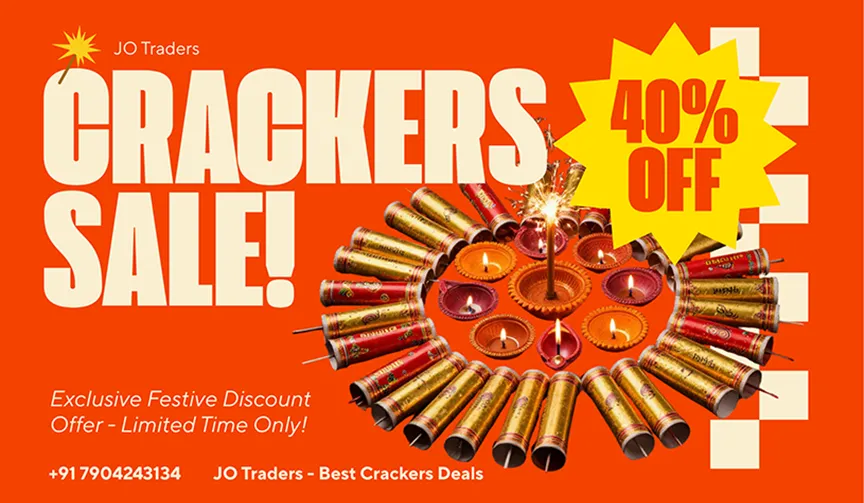
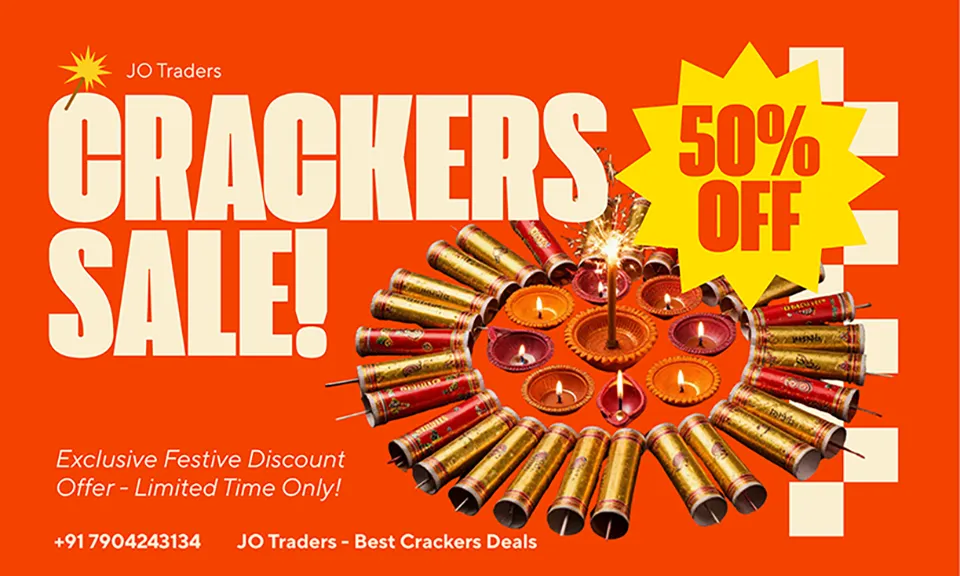
Update mobile navigation and website assets

diff --git a/prisma/seed.ts b/prisma/seed.ts
@@ -3,22 +3,22 @@ import { PrismaClient } from "@prisma/client";
 const prisma = new PrismaClient();
 
 const products = [
-  ["business-cards","Business Cards","Regular and premium business cards with gloss/matt lamination, synthetic stocks, foils, texture, Spot UV and specialty boards.","/images/Business Cards.png","Business Printing",true],
-  ["letterheads","Letter Heads","A4 and Letter size letterheads in one-colour, two-colour or multicolour printing on your desired paper.","/images/Letter Heads.png","Business Printing",true],
-  ["bill-books","Bill Books","Custom duplicate/triplicate bill books and business stationery prepared to your required format.","/images/Bill Books.png","Business Printing",false],
-  ["envelopes","Envelopes","Branded envelopes in standard and custom formats for professional correspondence.","/images/Envelopes.png","Business Printing",false],
-  ["vouchers-receipts","Voucher / Receipt","Custom vouchers, receipts and accounting stationery for businesses.","/images/Voucher_Receipt.png","Business Printing",false],
-  ["files","Files","Printed office files and presentation folders for organised business documentation.","/images/Files.png","Business Printing",false],
-  ["wall-posters","Wall Posters","Large-format posters for branding, announcements, campaigns and promotions.","/images/Wall Posters.png","Promotional",true],
-  ["flyers-brochures","Flyers / Brochures","Promotional flyers and brochures designed for clear, vibrant communication.","/images/Flyers_Brochures.png","Promotional",true],
-  ["stickers","Stickers","Custom stickers and labels in a variety of shapes, finishes and sizes.","/images/Stickers.png","Labels & Packaging",false],
-  ["box-paper-bags","Box / Paper Bags","Custom printed boxes and paper bags for product presentation and retail branding.","/images/Box_Paper Bags.png","Labels & Packaging",true],
-  ["calendars","Calendars","Branded calendars for promotional distribution and corporate gifting.","/images/Calendars.png","Promotional",false],
-  ["non-woven-bags","Non Woven Bags","Reusable non-woven carry bags with custom branding.","/images/Non Woven Bags.png","Promotional",false],
-  ["woven-labels","Woven Labels","Custom woven labels for apparel and textile branding.","/images/Woven Labels.png","Labels & Packaging",false],
-  ["novelties","Novelties","Custom promotional novelties and branded merchandise.","/images/Novelties.png","Promotional",false],
-  ["graphic-design","Graphic Design","Creative artwork, layouts and production-ready design support.","/images/Graphic Design.png","Design",true],
-  ["invitations","Invitations","Basic and premium invitations with single cards, pouches, Spot UV, 3D lamination, gold foil, die cuts and paper/board sets.","/images/Invitations.png","Invitations",true]
+  ["business-cards","Business Cards","Regular and premium business cards with gloss/matt lamination, synthetic stocks, foils, texture, Spot UV and specialty boards.","/images/Business Cards.webp","Business Printing",true],
+  ["letterheads","Letter Heads","A4 and Letter size letterheads in one-colour, two-colour or multicolour printing on your desired paper.","/images/Letter Heads.webp","Business Printing",true],
+  ["bill-books","Bill Books","Custom duplicate/triplicate bill books and business stationery prepared to your required format.","/images/Bill Books.webp","Business Printing",false],
+  ["envelopes","Envelopes","Branded envelopes in standard and custom formats for professional correspondence.","/images/Envelopes.webp","Business Printing",false],
+  ["vouchers-receipts","Voucher / Receipt","Custom vouchers, receipts and accounting stationery for businesses.","/images/Voucher_Receipt.webp","Business Printing",false],
+  ["files","Files","Printed office files and presentation folders for organised business documentation.","/images/Files.webp","Business Printing",false],
+  ["wall-posters","Wall Posters","Large-format posters for branding, announcements, campaigns and promotions.","/images/Wall Posters.webp","Promotional",true],
+  ["flyers-brochures","Flyers / Brochures","Promotional flyers and brochures designed for clear, vibrant communication.","/images/Flyers_Brochures.webp","Promotional",true],
+  ["stickers","Stickers","Custom stickers and labels in a variety of shapes, finishes and sizes.","/images/Stickers.webp","Labels & Packaging",false],
+  ["box-paper-bags","Box / Paper Bags","Custom printed boxes and paper bags for product presentation and retail branding.","/images/Box_Paper Bags.webp","Labels & Packaging",true],
+  ["calendars","Calendars","Branded calendars for promotional distribution and corporate gifting.","/images/Calendars.webp","Promotional",false],
+  ["non-woven-bags","Non Woven Bags","Reusable non-woven carry bags with custom branding.","/images/Non Woven Bags.webp","Promotional",false],
+  ["woven-labels","Woven Labels","Custom woven labels for apparel and textile branding.","/images/Woven Labels.webp","Labels & Packaging",false],
+  ["novelties","Novelties","Custom promotional novelties and branded merchandise.","/images/Novelties.webp","Promotional",false],
+  ["graphic-design","Graphic Design","Creative artwork, layouts and production-ready design support.","/images/Graphic Design.webp","Design",true],
+  ["invitations","Invitations","Basic and premium invitations with single cards, pouches, Spot UV, 3D lamination, gold foil, die cuts and paper/board sets.","/images/Invitations.webp","Invitations",true]
 ];
 
 async function main() {

diff --git a/components/Nav.tsx b/components/Nav.tsx
@@ -1,55 +1,32 @@
+"use client";
+
 import Link from "next/link";
+import { useState } from "react";
+import { FaWhatsapp } from "react-icons/fa";
 
 export default function Nav() {
+  const [open, setOpen] = useState(false);
+  const close = () => setOpen(false);
   return (
     <nav className="nav">
       <div className="container navin">
-
-        <Link href="/" className="brand" aria-label="JO Enterprises - Print Solutions">
-          <img
-            src="/images/Logo.png"
-            alt="JO Enterprises logo"
-            className="logo"
-          />
-          <span className="brandText">
-            <span className="brandTitle">JO Enterprises</span>
-            <span className="brandSubtitle">Print Solutions</span>
-          </span>
+        <Link href="/" className="brand" aria-label="JO Enterprises - Print Solutions" onClick={close}>
+          <img src="/images/Logo.webp" alt="JO Enterprises logo" className="logo" />
+          <span className="brandText"><span className="brandTitle">JO Enterprises</span><span className="brandSubtitle">Print Solutions</span></span>
         </Link>
-
-        <div className="links">
-          <Link href="/">Home</Link>
-          <Link href="/services">Our Services</Link>
-          <Link href="/print-products">Print Products</Link>
-          <Link href="/jo-traders">JO Traders</Link>
-          <Link href="/gallery">Gallery</Link>
-          <Link href="/contact">Contact</Link>
-          <Link
-            className="whatsappLink"
-            href="https://wa.me/919445573457"
-            target="_blank"
-            rel="noopener noreferrer"
-            aria-label="Message JO Enterprises on WhatsApp"
-            title="Message us on WhatsApp"
-          >
-            <svg
-              className="whatsappIcon"
-              viewBox="0 0 24 24"
-              aria-hidden="true"
-              focusable="false"
-            >
-              <path
-                fill="currentColor"
-                d="M12 2.1a9.9 9.9 0 0 0-8.55 14.9L2 21.9l5.05-1.32A9.9 9.9 0 1 0 12 2.1Zm0 18a8.08 8.08 0 0 1-4.12-1.13l-.3-.18-3 .78.8-2.92-.2-.31A8.08 8.08 0 1 1 12 20.1Zm4.42-6.05c-.24-.12-1.4-.69-1.62-.77-.22-.08-.38-.12-.54.12-.16.24-.62.77-.76.93-.14.16-.28.18-.52.06-.24-.12-1-.37-1.9-1.18-.7-.62-1.18-1.39-1.32-1.63-.14-.24-.01-.37.1-.49.11-.11.24-.28.36-.42.12-.14.16-.24.24-.4.08-.16.04-.3-.02-.42-.06-.12-.54-1.3-.74-1.78-.2-.47-.4-.41-.54-.42h-.46c-.16 0-.42.06-.64.3-.22.24-.84.82-.84 2s.86 2.32.98 2.48c.12.16 1.69 2.58 4.1 3.62.57.25 1.02.4 1.37.51.58.18 1.1.15 1.51.09.46-.07 1.4-.57 1.6-1.12.2-.55.2-1.02.14-1.12-.06-.1-.22-.16-.46-.28Z"
-              />
-            </svg>
-          </Link>
-
-          <Link className="cta" href="/contact">
-            Get a Quote
-          </Link>
+        <button className="menuToggle" type="button" aria-label="Toggle navigation menu" aria-expanded={open} onClick={() => setOpen(!open)}>
+          <span></span><span></span><span></span>
+        </button>
+        <div className={`links ${open ? "open" : ""}`}>
+          <Link href="/" onClick={close}>Home</Link>
+          <Link href="/services" onClick={close}>Our Services</Link>
+          <Link href="/print-products" onClick={close}>Print Products</Link>
+          <Link href="/jo-traders" onClick={close}>JO Traders</Link>
+          <Link href="/gallery" onClick={close}>Gallery</Link>
+          <Link href="/contact" onClick={close}>Contact</Link>
+          <Link className="whatsappLink" href="https://wa.me/919445573457" target="_blank" rel="noopener noreferrer" aria-label="Message JO Enterprises on WhatsApp" onClick={close}><FaWhatsapp className="whatsappIcon" /></Link>
+          <Link className="cta" href="/contact" onClick={close}>Get a Quote</Link>
         </div>
-
       </div>
     </nav>
   );

diff --git a/app/page.tsx b/app/page.tsx
@@ -1,14 +1,7 @@
 import Link from "next/link";
 import PromoCarousel from "@/components/PromoCarousel";
 
-const categories = [
-  { title: "Invitation", sub: "Cards", href: "/print-products?category=Invitation%20Cards" },
-  { title: "Thamboola", sub: "Bags", href: "/print-products?category=Thamboola%20Bags" },
-  { title: "Business", sub: "Essentials", href: "/print-products?category=Business%20Essentials" },
-  { title: "Event/Function", sub: "Essentials", href: "/print-products?category=Event%2FFunction%20Essentials" },
-  { title: "Digital", sub: "Promo", href: "/print-products?category=Digital%20Promo" },
-  { title: "Custom Printing", sub: "Solutions", href: "/print-products?category=Custom%20Printing%20Solutions" },
-];
+
 
 const reasons = [
   {
@@ -94,7 +87,7 @@ export default function Home() {
             <article className="reviewCard reviewSnapCard">
               <div className="reviewCardBadge">★ REAL GOOGLE REVIEW</div>
               <div className="reviewSnapFrame">
-                <img src="/images/google-review-1.png" alt="Google review from sasipriya kamban with photos of JO Enterprises Thamboola bags" />
+                <img src="/images/google-review-1.webp" alt="Google review from sasipriya kamban with photos of JO Enterprises Thamboola bags" />
               </div>
               <a href="https://www.google.com/search?q=joenterprise+google+review" target="_blank" rel="noreferrer" className="reviewLink">View on Google ↗</a>
             </article>
@@ -102,7 +95,7 @@ export default function Home() {
             <article className="reviewCard reviewSnapCard">
               <div className="reviewCardBadge">★ REAL GOOGLE REVIEW</div>
               <div className="reviewSnapFrame">
-                <img src="/images/google-review-2.png" alt="Google review from Muniswaran petchimuthu for JO Enterprises" />
+                <img src="/images/google-review-2.webp" alt="Google review from Muniswaran petchimuthu for JO Enterprises" />
               </div>
               <a href="https://www.google.com/search?q=joenterprise+google+review" target="_blank" rel="noreferrer" className="reviewLink">View on Google ↗</a>
             </article>
@@ -110,7 +103,7 @@ export default function Home() {
             <article className="reviewCard reviewSnapCard">
               <div className="reviewCardBadge">★ REAL GOOGLE REVIEW</div>
               <div className="reviewSnapFrame">
-                <img src="/images/google-review-3.png" alt="Google review from Senthil Kumar praising JO Enterprises printing design and quality" />
+                <img src="/images/google-review-3.webp" alt="Google review from Senthil Kumar praising JO Enterprises printing design and quality" />
               </div>
               <a href="https://www.google.com/search?q=joenterprise+google+review" target="_blank" rel="noreferrer" className="reviewLink">View on Google ↗</a>
             </article>

diff --git a/app/print-products/page.tsx b/app/print-products/page.tsx
@@ -2,22 +2,22 @@ import {prisma} from "@/lib/prisma";
 import Link from "next/link";
 
 const productImages: Record<string, string> = {
-  "business-cards": "/images/Business Cards.png",
-  "letterheads": "/images/Letter Heads.png",
-  "bill-books": "/images/Bill Books.png",
-  "envelopes": "/images/Envelopes.png",
-  "vouchers-receipts": "/images/Voucher_Receipt.png",
-  files: "/images/Files.png",
-  "wall-posters": "/images/Wall Posters.png",
-  "flyers-brochures": "/images/Flyers_Brochures.png",
-  stickers: "/images/Stickers.png",
-  "box-paper-bags": "/images/Box_Paper Bags.png",
-  calendars: "/images/Calendars.png",
-  "non-woven-bags": "/images/Non Woven Bags.png",
-  "woven-labels": "/images/Woven Labels.png",
-  novelties: "/images/Novelties.png",
-  "graphic-design": "/images/Graphic Design.png",
-  invitations: "/images/Invitations.png",
+  "business-cards": "/images/Business Cards.webp",
+  "letterheads": "/images/Letter Heads.webp",
+  "bill-books": "/images/Bill Books.webp",
+  "envelopes": "/images/Envelopes.webp",
+  "vouchers-receipts": "/images/Voucher_Receipt.webp",
+  files: "/images/Files.webp",
+  "wall-posters": "/images/Wall Posters.webp",
+  "flyers-brochures": "/images/Flyers_Brochures.webp",
+  stickers: "/images/Stickers.webp",
+  "box-paper-bags": "/images/Box_Paper Bags.webp",
+  calendars: "/images/Calendars.webp",
+  "non-woven-bags": "/images/Non Woven Bags.webp",
+  "woven-labels": "/images/Woven Labels.webp",
+  novelties: "/images/Novelties.webp",
+  "graphic-design": "/images/Graphic Design.webp",
+  invitations: "/images/Invitations.webp",
 };
 
 export default async function PrintProducts() {

diff --git a/app/globals.css b/app/globals.css
@@ -288,3 +288,17 @@ a{text-decoration:none;color:inherit}.container{width:min(1180px,92%);margin:aut
 .tradersOrderBtnDark:hover{box-shadow:0 14px 30px rgba(111,32,32,.22)}
 @media(max-width:900px){.tradersProductGrid{grid-template-columns:1fr 1fr}.tradersCrackersInner{grid-template-columns:1fr 260px}.tradersCrackersInner .tradersOrderBtn{grid-column:1 / -1;width:max-content}}
 @media(max-width:560px){.tradersHero{padding:68px 0 58px}.tradersSection{padding:60px 0}.tradersProductGrid{grid-template-columns:1fr}.tradersCrackers{padding:55px 0 70px}.tradersCrackersInner{grid-template-columns:1fr}.tradersCrackersInner .tradersOrderBtn{grid-column:auto;width:100%}.tradersImagePlaceholder{height:220px}.tradersCrackerImage{height:210px}}
+
+/* Mobile navigation */
+.menuToggle{display:none;background:transparent;border:0;padding:8px;cursor:pointer}
+.menuToggle span{display:block;width:25px;height:2px;background:#fff;margin:5px 0;border-radius:2px}
+@media(max-width:850px){
+  .nav{position:sticky}
+  .navin{position:relative}
+  .menuToggle{display:block;margin-left:auto}
+  .links{display:none}
+  .links.open{display:flex;position:absolute;top:100%;left:0;right:0;z-index:100;flex-direction:column;align-items:stretch;gap:0;padding:10px 16px 18px;background:#063f43;border-top:1px solid rgba(217,242,243,.12);box-shadow:0 16px 30px rgba(0,0,0,.18)}
+  .links.open>a{display:block;padding:13px 8px;color:#d9f2f3;border-bottom:1px solid rgba(217,242,243,.09)}
+  .links.open>.whatsappLink{width:auto;height:auto;border-radius:0;color:#d9f2f3}
+  .links.open>.cta{text-align:center;margin-top:12px;padding:13px 18px;border-bottom:0}
+}

diff --git a/components/Footer.tsx b/components/Footer.tsx
@@ -1,8 +1,9 @@
-import { Facebook, Instagram, Youtube, Phone, MapPin } from "lucide-react";
+import { Instagram, Youtube, Phone, MapPin } from "lucide-react";
+import { FaWhatsapp, FaFacebookF } from "react-icons/fa";
 
 const socialLinks = [
-  { label: "WhatsApp", href: "https://wa.me/919445573457", icon: <span className="footerWhatsApp" aria-hidden="true">⌕</span> },
-  { label: "Facebook", href: "https://www.facebook.com/JOE14621", icon: <Facebook className="footerIcon" /> },
+  { label: "WhatsApp", href: "https://wa.me/919445573457", icon: <FaWhatsapp className="footerIcon" /> },
+  { label: "Facebook", href: "https://www.facebook.com/JOE14621", icon: <FaFacebookF className="footerIcon" /> },
   { label: "Instagram", href: "https://www.instagram.com/joenterprises.am/?hl=en", icon: <Instagram className="footerIcon" /> },
   { label: "Google", href: "https://share.google/gQ7tw6Y193nRxJXTP", icon: <span className="footerGoogle" aria-hidden="true">G</span> },
   { label: "YouTube", href: "https://www.youtube.com/@joenterprises_am", icon: <Youtube className="footerIcon" /> },
@@ -14,7 +15,7 @@ export default function Footer() {
     <footer className="footer">
       <div className="container footerRow">
         <a href="/" className="footerBrand" aria-label="JO Enterprises home">
-          <img src="/images/logo.png" alt="JO Enterprises" className="footerLogo" />
+          <img src="/images/logo.webp" alt="JO Enterprises" className="footerLogo" />
         </a>
 
         <div className="footerLocation">

diff --git a/app/jo-traders/page.tsx b/app/jo-traders/page.tsx
@@ -5,7 +5,7 @@ const whatsappHref = "https://wa.me/917904243134?text=Hello%20JO%20Traders%2C%20
 const oils = [
   { name: "Sesame Oil", image: "/images/Sesame.webp", sizes: ["1L — Rs. 479", "500ml — Rs. 249"] },
   { name: "Groundnut Oil", image: "/images/Groundnut.webp", sizes: ["1L — Rs. 379", "500ml — Rs. 199"] },
-  { name: "Coconut Oil", image: "/images/Coconut.webp", sizes: ["500ml — Rs. 359"] },
+  { name: "Coconut Oil", image: "/images/Coconut.webp", sizes: ["500ml — Rs. 255"] },
 ];
 
 export default function JOTraders() {
@@ -14,7 +14,7 @@ export default function JOTraders() {
       <section className="tradersHero">
         <div className="container">
           <span className="tradersEyebrow">JO Traders</span>
-          <h1>Pure choices. Honest prices.</h1>
+          <h1>Pure Choices. Honest Prices.</h1>
           <p>Quality cooking oils and crackers, brought to you with dependable service.</p>
           <Link className="tradersOrderBtn" href={whatsappHref} target="_blank" rel="noopener noreferrer">
             Order Now on WhatsApp
@@ -26,7 +26,7 @@ export default function JOTraders() {
         <div className="container">
           <div className="tradersSectionHead">
             <span className="tradersEyebrow">Cooking Oils</span>
-            <h2>Everyday oils, carefully selected</h2>
+            <h2>Cold-Pressed oil, Naturaly Prepared</h2>
             <p>100ml, 200ml, 5L can and 15L tin available.</p>
           </div>
 

diff --git a/components/PromoCarousel.tsx b/components/PromoCarousel.tsx
@@ -4,10 +4,10 @@ import { useEffect, useState } from "react";
 import Image from "next/image";
 
 const promos = [
-  "/images/promos/calendar-2027.png",
-  "/images/promos/combo-offers.png",
-  "/images/promos/eco-paper-bags.png",
-  "/images/promos/seasonal-promos.png",
+  "/images/promos/calendar-2027.webp",
+  "/images/promos/combo-offers.webp",
+  "/images/promos/eco-paper-bags.webp",
+  "/images/promos/seasonal-promos.webp",
 ];
 
 export default function PromoCarousel() {
